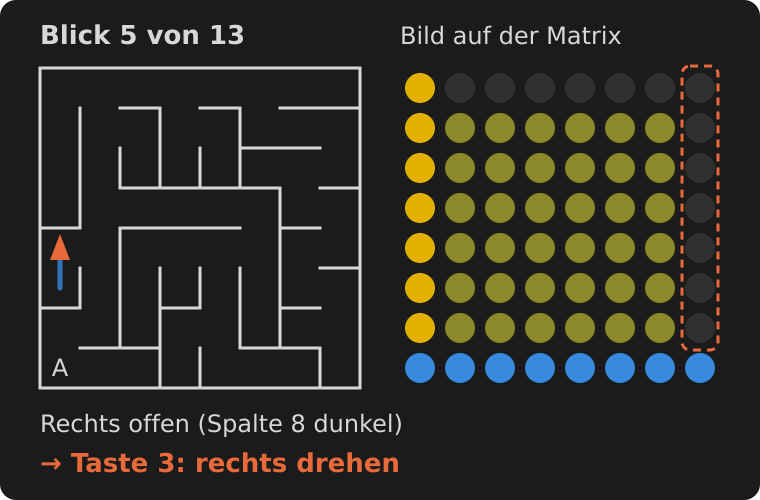
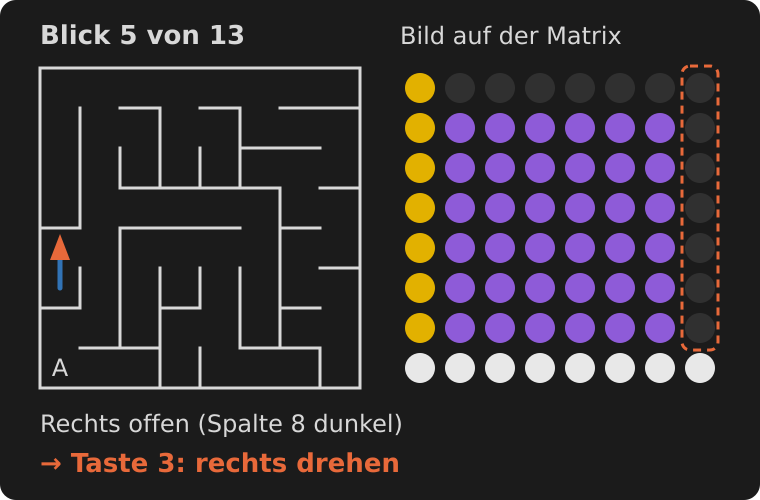
Version 12: Farben nach Entfernung, Stirnwand violett, Loch schwarz
Claude-Session: https://claude.ai/code/session_01U7fekmFcKLeqN7GHxQrNkj

Changed region(s): [[0.5145, 0.21, 0.9382, 0.78]]

diff --git a/irrgarten_farben.py b/irrgarten_farben.py
@@ -1,21 +1,23 @@
 # Userscript fuer den 3D-Irrgarten (irrgarten.mic) auf dem ESP2090 Studio
-# Setzt die Farbmatrix und endet: Waende gelb, Boden blau (unten 8, 6, 4 LEDs).
+# Setzt die Farbmatrix und endet. Die Farben werden mit der Entfernung dunkler:
+#   Seitenwaende gelb, orange, rot (1., 2., 3. Raum), Boden weiss, tuerkis, blau (unten 8, 6, 4 LEDs).
 # Einmal nach dem Einschalten des ESP starten ("Run"), die Matrix muss eingeschaltet sein ("LED on").
 # Fuer weitere RUNs ist es nicht noetig. Nach einer Aenderung der Farben hier: noch einmal starten, dann RUN.
-# Die Stirnwand (oliv) und das Loch am Ausgang (rot) faerbt das Programm selbst.
+# Die Stirnwand (violett) und das Loch am Ausgang (schwarz) faerbt das Programm selbst.
 
-W = "gelb"       # Waende
-B = "blau"       # Boden
+G, O, R = "gelb", "orange", "rot"          # Seitenwaende: nah, mittel, fern
+W, T, B = "weiss", "tuerkis", "blau"       # Boden: nah, mittel, fern
+_ = "schwarz"                              # hier leuchtet nur die Stirnwand, Farbe egal
 
 farben = [
+    [G, _, _, _, _, _, _, G],
+    [G, O, _, _, _, _, O, G],
+    [G, O, R, _, _, R, O, G],
+    [G, O, R, _, _, R, O, G],
+    [G, O, R, _, _, R, O, G],
+    [G, O, B, B, B, B, O, G],
+    [G, T, T, T, T, T, T, G],
     [W, W, W, W, W, W, W, W],
-    [W, W, W, W, W, W, W, W],
-    [W, W, W, W, W, W, W, W],
-    [W, W, W, W, W, W, W, W],
-    [W, W, W, W, W, W, W, W],
-    [W, W, B, B, B, B, W, W],
-    [W, B, B, B, B, B, B, W],
-    [B, B, B, B, B, B, B, B],
 ]
 
 setColors([c for zeile in farben for c in zeile])

diff --git a/README.md b/README.md
@@ -10,27 +10,29 @@
 
 - **Irrgarten:** 8x8 Räume, jedes Mal neu ausgewürfelt. Zwischen zwei Räumen gibt es immer genau einen Weg.
 - **Start:** in einem zufälligen Raum mit zufälliger Blickrichtung.
-- **Ausgang:** der Raum in der Südwest-Ecke. Ist er im Blick, hat der Boden direkt vor der Stirnwand ein rotes Loch.
+- **Ausgang:** der Raum in der Südwest-Ecke. Ist er im Blick, hat der Boden direkt vor der Stirnwand ein dunkles Loch.
 - **Geschafft:** Wer in den Ausgang geht, bekommt sofort einen neuen Irrgarten.
 
 ## Start
 
 1. Matrix einschalten („LED on“ in der Weboberfläche).
-2. Einmal nach dem Einschalten des ESP: das Userscript `irrgarten_farben.py` mit **Run** starten. Es setzt die Farben (Wände gelb, Boden blau) und endet sofort.
+2. Einmal nach dem Einschalten des ESP: das Userscript `irrgarten_farben.py` mit **Run** starten. Es setzt die Farben von Seitenwänden und Boden und endet sofort.
 3. RESET, `HALT` `NEXT` `00` `RUN`. Nach etwa 7 Sekunden steht der erste Blick.
 
 Für jeden weiteren RUN reichen RESET und RUN. Das Userscript braucht es nur noch einmal, wenn die Farben darin geändert wurden, wenn ein anderes Programm die Farben der Matrix verändert hat oder wenn der RESET mitten im Zeichnen kam.
 
 Die Matrix muss wach sein. Hat ein anderes Programm sie schlafen gelegt, wartet der Irrgarten, bis sie geweckt wird.
 
-**Ohne Userscript** läuft das Programm auch und bleibt spielbar: Wände und Boden sind dann beide rot, die Standardfarbe der Matrix. Die Stirnwand ist weiter oliv. Das rote Loch am Ausgang ist auf dem roten Boden allerdings nicht zu sehen, man merkt den Ausgang erst, wenn man hineingeht. So sieht es auch im Emulator2090 aus, der keine Userscripts kennt.
+**Ohne Userscript** läuft das Programm auch und bleibt spielbar: Seitenwände und Boden sind dann alle rot, die Standardfarbe der Matrix. Stirnwand und Loch färbt das Programm selbst, sie bleiben violett und dunkel. So sieht es auch im Emulator2090 aus, der keine Userscripts kennt.
 
 ## Bild
 
 - **Sichttiefe:** 3 Räume. Bleibt die Mitte dunkel, geht der Gang noch weiter.
-- **Boden:** blau, die untersten drei Zeilen mit 8, 6 und 4 LEDs.
-- **Seitenwände:** gelb, in Spalte 1/8, 2/7 und 3/6 für den 1., 2. und 3. Raum. Eine Öffnung zur Seite bleibt dunkel.
-- **Stirnwand:** oliv (ein dunkles Gelb, wie dieselbe Mauer im Schatten), ein Quadrat in der Mitte mit 6, 4 oder 2 LEDs Kante, je nach Entfernung.
+- **Farben nach Entfernung:** Seitenwände und Boden werden zur Ferne hin dunkler, das gibt mehr Tiefe.
+- **Boden:** die untersten drei Zeilen mit 8, 6 und 4 LEDs, von nah nach fern weiß, türkis, blau.
+- **Seitenwände:** Spalte 1/8, 2/7 und 3/6 für den 1., 2. und 3. Raum, gelb, orange, rot. Eine Öffnung zur Seite bleibt dunkel.
+- **Stirnwand:** violett, ein Quadrat in der Mitte mit 6, 4 oder 2 LEDs Kante, je nach Entfernung.
+- **Ausgang:** ein dunkles Loch im Boden direkt vor der Stirnwand, so breit wie sie.
 
 ## Bedienung
 
@@ -51,9 +53,9 @@ Dass nach dem Finden des Ausgangs gleich ein neuer Irrgarten kommt, scheint viel
 
 ## Farben ändern
 
-- **Wände und Boden:** im Userscript, `W = "gelb"` und `B = "blau"`. Möglich sind die Farbnamen von `setColors`. Nach einer Änderung das Userscript noch einmal starten, dann RESET und RUN.
-- **Stirnwand:** im Programm an Adresse 88, Befehl `1D8`. Die mittlere Ziffer ist die Farbnummer der Matrix (D = oliv).
-- **Loch am Ausgang:** im Programm an Adresse 7C, Befehl `118` (1 = rot).
+- **Seitenwände und Boden:** im Userscript, `G, O, R` für die Seitenwände und `W, T, B` für den Boden, jeweils nah, mittel, fern. Möglich sind die Farbnamen von `setColors`. Nach einer Änderung das Userscript noch einmal starten, dann RESET und RUN.
+- **Stirnwand:** im Programm an Adresse 88, Befehl `178`. Die mittlere Ziffer ist die Farbnummer der Matrix (7 = violett).
+- **Loch am Ausgang:** im Programm an Adresse 7C, Befehl `108` (0 = schwarz).
 
 ## Immer an der Wand lang...
 
@@ -70,7 +72,7 @@ Das klappt, weil der Irrgarten keine Schleifen und keine Inseln hat: Die Regel f
 
 <img src="bilder/legende.png" width="390" alt="Drei Beispielbilder der Matrix, Spalte 1 und 8 sind markiert">
 
-- **Rechts** ist Spalte 8, **links** ist Spalte 1. Leuchtet die Spalte in Wandfarbe, ist dort Wand. Ist sie dunkel, ist dort eine Öffnung.
+- **Rechts** ist Spalte 8, **links** ist Spalte 1. Leuchtet die Spalte (gelb), ist dort Wand. Ist sie dunkel, ist dort eine Öffnung.
 - **Vorn** steht eine Wand, wenn das Quadrat der Stirnwand groß ist (6x6 LEDs). Ist es kleiner oder fehlt es, ist der nächste Raum frei.
 - **Bild A:** rechts offen, links Wand, vorn frei (das Quadrat ist nur 4x4, die Stirnwand steht einen Raum weiter).
 - **Bild B:** rechts und links Wand, vorn frei.
@@ -87,7 +89,7 @@ Ein Lauf aus dem Emulator, 13 Blicke vom Start bis zum Ausgang. Jedes Bild zeigt
 <img src="bilder/blick-07.png" width="380" alt="Blick 7: rechts offen, Taste 3"> <img src="bilder/blick-08.png" width="380" alt="Blick 8: nach rechts gedreht, Taste 2">
 <img src="bilder/blick-09.png" width="380" alt="Blick 9: rechts Wand, vorn frei, Taste 2"> <img src="bilder/blick-10.png" width="380" alt="Blick 10: rechts offen, Taste 3">
 <img src="bilder/blick-11.png" width="380" alt="Blick 11: nach rechts gedreht, Taste 2"> <img src="bilder/blick-12.png" width="380" alt="Blick 12: rechts und vorn Wand, links offen, Taste 1">
-<img src="bilder/blick-13.png" width="380" alt="Blick 13: nach links gedreht, rotes Loch voraus, Taste 2">
+<img src="bilder/blick-13.png" width="380" alt="Blick 13: nach links gedreht, Loch im Boden voraus, Taste 2">
 
 Mit der Taste 2 in Blick 13 geht man in den Ausgang, und das Programm würfelt den nächsten Irrgarten aus. Der ganze Weg:
 
@@ -98,7 +100,7 @@ Mit der Taste 2 in Blick 13 geht man in den Ausgang, und das Programm würfelt d
 - **Geprüft wird nur beim Betreten eines Raums.** Nach einer Drehung (Blick 2, 4, 6, 8, 11, 13) folgt immer sofort Taste 2, ohne neu zu prüfen.
 - **Blick 1 und Blick 6 sind dasselbe Bild**, verlangen aber verschiedene Tasten. In Blick 1 steht man neu im Raum und prüft: rechts offen, also drehen. In Blick 6 hat man sich gerade gedreht. Die dunkle Spalte 8 ist jetzt der Gang, aus dem man kommt, nämlich die Sackgasse von Blick 3. Wer hier noch einmal prüft und wieder nach rechts dreht, läuft in die Sackgasse zurück.
 - **Sackgassen gehören dazu** (Blick 3 und 4). Die Regel führt hinein und wieder heraus, das ist kein Fehler.
-- **Das rote Loch im Boden** (Blick 13) zeigt den Ausgang voraus. Sieht man es früher, darf man die Regel verlassen und geradeaus hineingehen.
+- **Das dunkle Loch im Boden** (Blick 13) zeigt den Ausgang voraus. Sieht man es früher, darf man die Regel verlassen und geradeaus hineingehen.
 - **Vor einer Wand tut sich nichts:** Taste 2 ändert dann das Bild nicht. Erst schauen, ob vorn frei ist, sonst verzählt man sich.
 - **Auf das Bild warten:** Ein Blick braucht etwa 3 Sekunden. Die nächste Taste erst drücken, wenn das Bild steht.
 - **Hand nie wechseln:** Wer zwischendurch auf links umsteigt, läuft dieselben Gänge noch einmal ab.
@@ -106,4 +108,4 @@ Mit der Taste 2 in Blick 13 geht man in den Ausgang, und das Programm würfelt d
 ## Technik
 
 - **Speicher:** 1 Bit je Raum in den 16 Speicherregistern M0-MF. Bit 1 heißt Durchgang nach Osten. Die Bits teilen jede Reihe in Stücke, und aus jedem Stück führt genau ein Durchgang nach Norden: in den ungeraden Reihen am Ostende, in den geraden am Westende. Dadurch zeigen die Winkel reihenweise abwechselnd nach links und rechts.
-- **Zeichnen:** Am Start legt das Programm die Farben des Userscripts auf den Stapel der Matrix. Je Blick sendet es ein Bild im Blockmodus (Wände und Boden) und zeichnet die Stirnwand als Rechteck. Das Loch am Ausgang färbt es vorher rot, nur in den Farben der Matrix: Seine LEDs leuchten als Boden schon, und es erscheint mit der Stirnwand zugleich. Gleich danach holt es die Farben vom Stapel zurück. Das ändert die Anzeige nicht, die Stirnwand bleibt sichtbar, aber im Speicher der Matrix stehen wieder die Grundfarben.
+- **Zeichnen:** Am Start legt das Programm die Farben des Userscripts auf den Stapel der Matrix. Je Blick sendet es ein Bild im Blockmodus (Wände und Boden) und zeichnet die Stirnwand als Rechteck. Das Loch am Ausgang färbt es vorher schwarz, nur in den Farben der Matrix: Seine LEDs sind als Boden an, zeigen aber Schwarz, und das Loch erscheint mit der Stirnwand zugleich. Gleich danach holt es die Farben vom Stapel zurück. Das ändert die Anzeige nicht, die Stirnwand bleibt sichtbar, aber im Speicher der Matrix stehen wieder die Grundfarben.
